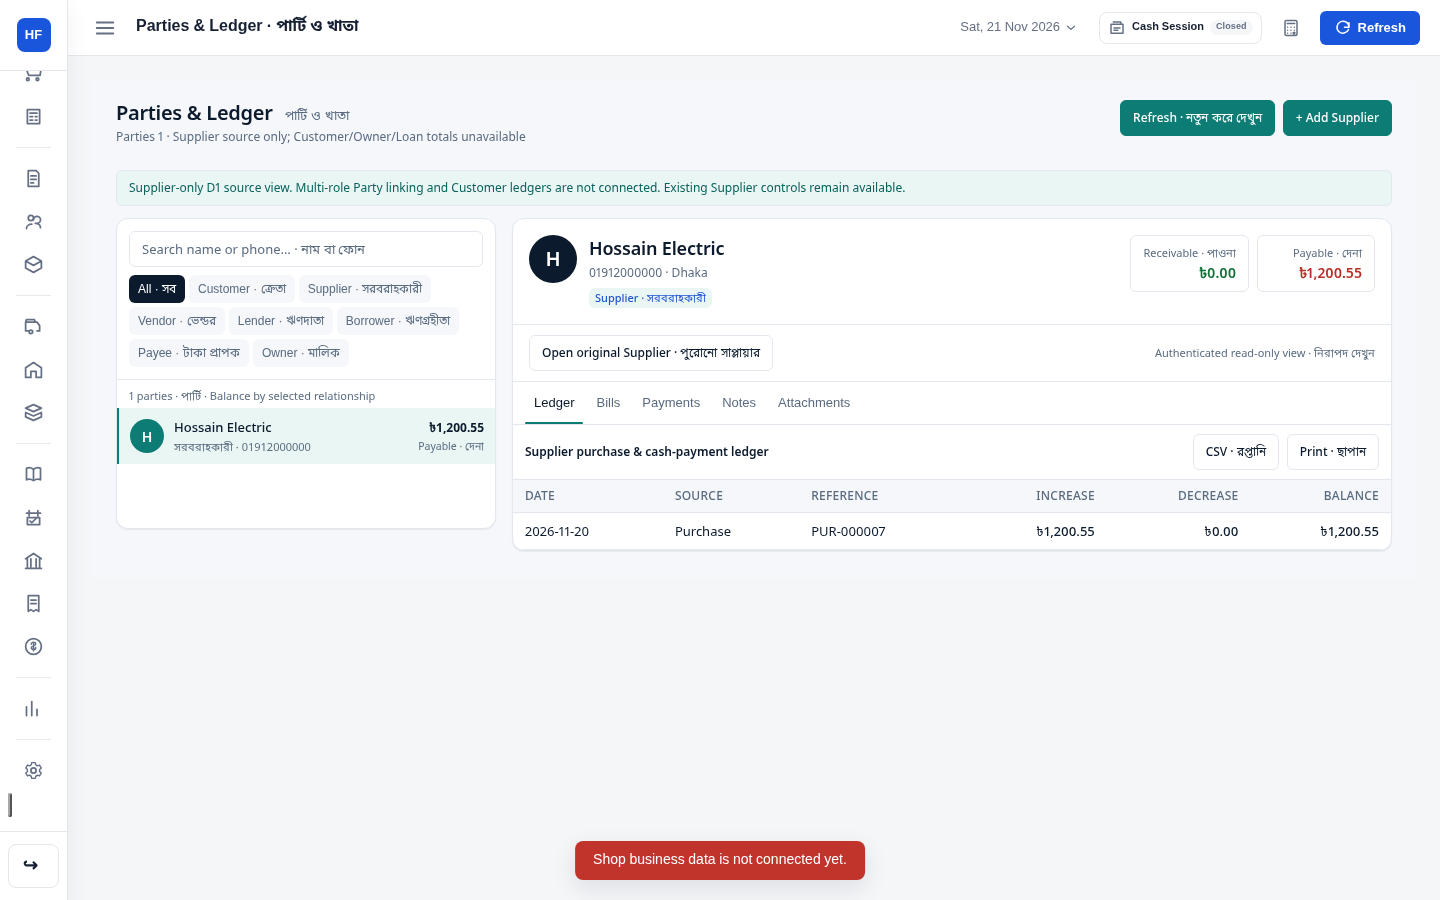
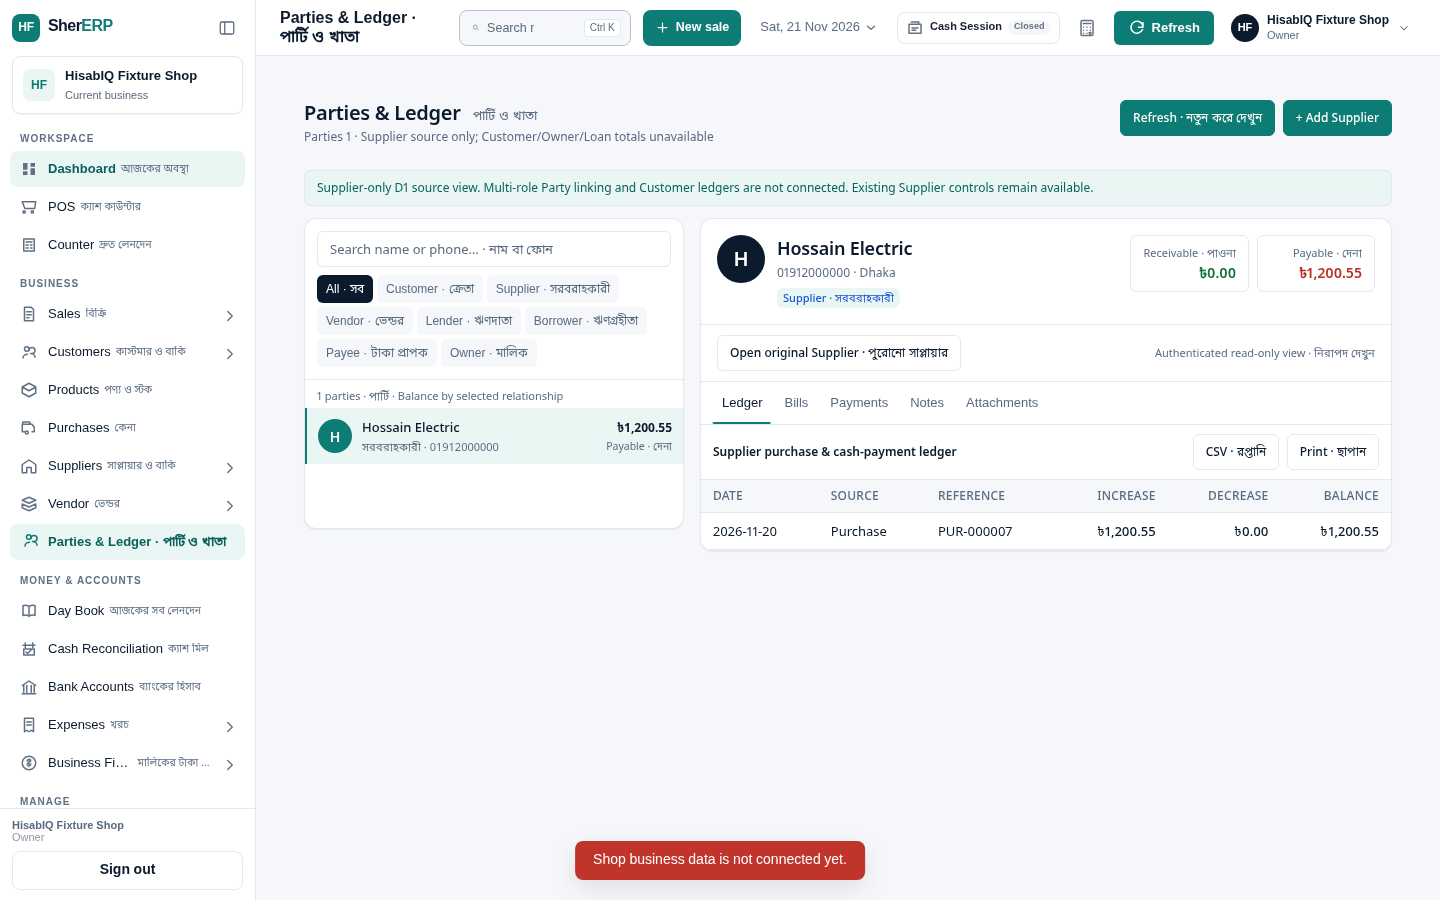
test(M01): capture same-shell before and after Supplier gross visuals

diff --git a/docs/reviews/m01-party-supplier-gross-opening/README.md b/docs/reviews/m01-party-supplier-gross-opening/README.md
@@ -9,7 +9,7 @@
 | 390px phone | ![390px source before](images/390-before.png) | ![390px source after](images/390-after.png) |
 | 1440px desktop | ![1440px source before](images/1440-before.png) | ![1440px source after](images/1440-after.png) |
 
-The **before** images are exact copies of the previously verified `docs/reviews/m01-hisabiq-party-ui/images/390-after.png` and `1440-after.png` captures; they are baseline images of the pre-opening contract, not doctored/synthetic renderings of the new balances. All **after** images are captured by `qa/m01-hisabiq-party-browser.spec.mjs` in the new feature branch after loading the same source supplier with the optional signed opening fields. The source profile previously displayed only one payable/current due.
+The **before** images are actual Playwright captures of the **same compiled Owner shell** with the pre-0013 Supplier response (no new opening checkpoint fields). The **after** images are captures of that exact build with the proposed optional signed opening fields and a source history entry. Both screenshot states are recorded by `qa/m01-hisabiq-party-browser.spec.mjs` with fixed viewport widths. This eliminates misleading differences from the separately merged HisabIQ sidebar redesign. The older PR #854 Party screenshots are retained at `docs/reviews/m01-hisabiq-party-ui/` as historical source implementation evidence, but are **not** the before images used here.
 
 ## Screenshot review findings and fixes
 
